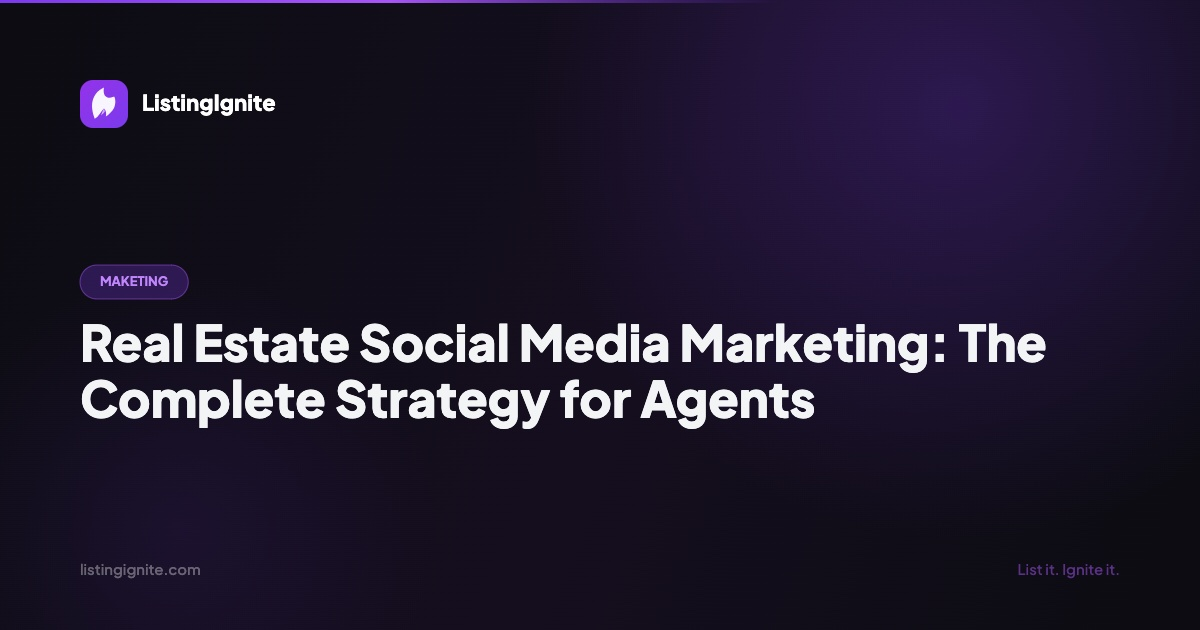
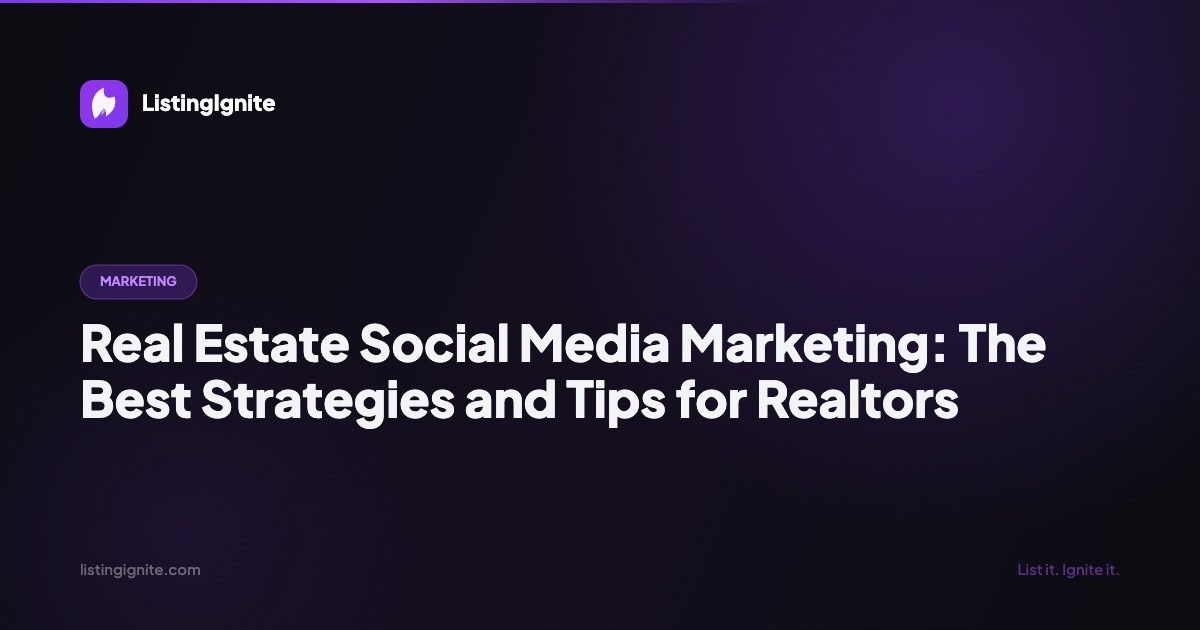
blog: add [UPDATE - Real Estate Social Media Marketing: The Complete Strategy for Agents]

Changed region(s): [[0.0617, 0.6032, 0.8017, 0.6937], [0.0925, 0.4222, 0.185, 0.4825]]

diff --git a/src/content/blog/real-estate-marketing-on-social-media.md b/src/content/blog/real-estate-marketing-on-social-media.md
@@ -1,28 +1,28 @@
 ---
-title: "Real Estate Social Media Marketing: The Complete Strategy for Agents"
+title: "Real Estate Social Media Marketing: The Best Strategies and Tips for Realtors"
 date: "2026-04-19"
 excerpt: "Every agent is on social media. Very few are using it strategically. Here's the complete guide to real estate marketing on social media that actually gets results."
 description: "Learn how to use real estate social media marketing to build your brand, generate leads, and grow your business. Covers platforms, content strategy, posting schedules, tools, and how to turn followers into clients."
 featuredImage: "/blog/images/real-estate-marketing-on-social-media.jpg"
 category: "Marketing"
 author: "Jason Stepp"
-tags: ["real estate marketing","listing marketing", "mls", "real estate social media marketing", "real estate marketing on social media", "social media marketing", "instagram", "real estate marketing"]
+tags: ["real estate social media marketing", "real estate marketing on social media", "social media marketing", "instagram", "real estate marketing"]
 published: true
 ---
 
 Every agent is on social media. Very few are using it strategically.
 
-Posting a listing photo once a week and calling it marketing isn't a strategy. It's noise. The agents who actually generate leads, build their brand, and grow their real estate business on social media are doing something different - they have a plan, they show up consistently, and they treat every post as part of a larger marketing effort.
+Posting a listing photo once a week and calling it marketing isn't a strategy. It's noise. The agents who actually generate leads, build their brand, and grow their real estate business on social media are doing something different - they have a plan, they show up consistently, and they treat every social post as part of a larger marketing effort.
 
-Real estate marketing on social media has become one of the best ways to reach buyers and sellers before they're ready to act. Before a potential client calls an agent, they've already looked them up. They've scrolled their Instagram, watched their videos, read their posts. Social media is where first impressions happen now - and for real estate professionals, that means showing up with intention.
+Real estate marketing on social media has become one of the best ways to reach buyers and sellers before they're ready to act. Before a potential client calls an agent, they've already looked them up. They've scrolled their Instagram, watched their TikTok videos, read their posts. Social media is where first impressions happen now - and for real estate professionals, that means showing up with intention.
 
-This guide covers everything: which platforms to focus on, what to post, how to build a content calendar, and how to turn social media presence into real business results.
+This guide covers everything: which platforms to focus on, what to post, how to build a content calendar, and how to turn your social media presence into real business results.
 
 ---
 
-## Why Social Media Marketing for Real Estate Actually Works
+## Why Social Media and Real Estate Are a Perfect Match
 
-Social media isn't just a place to post listings. For real estate agents who use it well, it's a powerful tool for building trust, generating leads, and staying top of mind with an audience that will eventually buy or sell.
+Social media isn't just a place to post listings. For real estate agents who use it well, it's a powerful tool for real estate marketing - building trust, generating leads, and staying top of mind with an audience that will eventually buy or sell.
 
 The numbers tell the story. The National Association of Realtors consistently reports that the vast majority of buyers start their home search online - and social media platforms are where a significant portion of that research happens. Buyers follow local agents on Instagram before they ever reach out. Sellers check a realtor's social media presence before they agree to a listing appointment. Your social media profile is your digital storefront - and it's open around the clock.
 
@@ -36,7 +36,7 @@ For a complete look at how social media fits into a broader real estate listing 
 
 <!--cta-->
 
-## Choose the Right Social Media Platforms for Your Real Estate Business
+## Choose the Best Social Media Platforms for Your Real Estate Business
 
 Not every platform deserves your time. The agents who get the most out of social media marketing focus on the platforms where their target clients actually spend time - and show up there consistently rather than spreading themselves thin across every social media channel.
 
@@ -44,17 +44,17 @@ Here's how to think about the major platforms.
 
 ---
 
-### Instagram for Real Estate
+### Instagram for Real Estate Agents
 
 Instagram is the most important social media platform for most real estate agents. It's visual, it's where buyers and sellers spend time, and it rewards consistency in a way that directly benefits agents who post regularly.
 
-Use Instagram for listing photos, neighborhood content, market updates, and behind-the-scenes glimpses of your business. Instagram Stories are perfect for quick updates - an open house reminder, a just-listed announcement, a poll about the local market. Instagram Reels give your content a chance to reach people who don't already follow you, making them one of the best tools for growing your audience organically.
+Use Instagram for listing photos, neighborhood content, market updates, and behind-the-scenes glimpses of your business. Instagram Stories are perfect for quick updates - an open house reminder, a just-listed announcement, a poll about the local market. Instagram Reels give your content a chance to reach people who don't already follow you, making them one of the best free social media tools for growing your audience organically.
 
-A strong real estate Instagram presence builds brand recognition over time. Every post is a touchpoint with someone in your sphere - and consistent touchpoints turn into referrals.
+A strong real estate Instagram presence builds brand recognition over time. Every instagram post is a touchpoint with someone in your sphere - and consistent touchpoints turn into referrals.
 
 ---
 
-### TikTok for Real Estate
+### TikTok: The Fastest-Growing Platform for Real Estate
 
 TikTok has become one of the fastest-growing platforms for real estate professionals. Short video content on TikTok reaches audiences that Instagram and Facebook don't always capture - particularly younger buyers who are just starting to think about purchasing a home.
 
@@ -64,7 +64,7 @@ Even two to three TikTok posts per week can build a meaningful following over ti
 
 ---
 
-### LinkedIn for Real Estate Professionals
+### LinkedIn for Real Estate Professionals Who Want to Build Authority
 
 LinkedIn is the most underused social media platform in real estate - and one of the highest-value ones for the right agent. If you work with commercial real estate clients, corporate relocation buyers, or real estate investors, LinkedIn is where those clients spend their professional time.
 
@@ -94,13 +94,13 @@ Video content is the highest-performing content type across every major social m
 
 For real estate agents, video is also the most natural fit. A walkthrough of a new listing, a quick market update, a neighborhood tour, a tip for first-time buyers - all of it translates naturally to short video content that builds brand recognition and generates leads over time.
 
-For a complete guide to using video as part of your real estate marketing strategy, check out our guide: [Real Estate Video Marketing: The Complete Guide for Agents.](https://listingignite.com/blog/real-estate-video-marketing)
+For a complete guide to using video as part of your marketing your real estate business strategy, check out our guide: [Real Estate Video Marketing: The Complete Guide for Agents.](https://listingignite.com/blog/real-estate-video-marketing)
 
 ---
 
-### Use Instagram Reels and Short Video
+### Use Instagram Reels and Short Video to Grow Your Real Estate Audience
 
-Instagram Reels are the single best free social media tool available to real estate agents right now. Reels get shown to people who don't already follow you - making them one of the fastest ways to grow your audience organically and reach potential clients in your local market.
+Instagram Reels are the single best free social media tool available to real estate agents right now. Reels get shown to people who don't already follow you - making them one of the fastest ways to grow your real estate audience organically and reach potential clients in your local market.
 
 Keep Reels short, punchy, and visually strong. A 30-60 second walkthrough of a listing, a quick three-tip market update, or a before-and-after renovation reveal all perform well. Use captions - most people watch without sound. And post consistently. One to two Reels per week compounds quickly into meaningful reach over time.
 
@@ -108,7 +108,7 @@ Keep Reels short, punchy, and visually strong. A 30-60 second walkthrough of a l
 
 ### Share Listings the Right Way
 
-Every listing deserves its own social post - but how you share it matters. A photo dump with an address and a price isn't marketing. A well-crafted social post that leads with the strongest feature, tells a short story, and ends with a clear call to action is.
+Every listing deserves its own social media post - but how you share it matters. A photo dump with an address and a price isn't marketing. A well-crafted social post that leads with the strongest feature, tells a short story, and ends with a clear call to action is.
 
 Use high-quality photos, write copy that speaks to the lifestyle the property offers, and include relevant hashtags to extend your reach beyond your existing followers. Tag the neighborhood, the city, and any relevant local accounts. Every listing post is an opportunity to reach a new potential client - treat it that way.
 
@@ -116,7 +116,7 @@ For tips on writing listing copy that translates seamlessly from social to MLS, 
 
 ---
 
-### Use Hashtags to Expand Your Reach
+### Use Hashtags to Expand Your Reach Across Social Media Channels
 
 Hashtags are one of the most underused tools in real estate social media marketing. The right hashtags put your content in front of people who are actively searching for real estate content in your market - buyers, sellers, and potential clients who don't follow you yet.
 
@@ -124,9 +124,9 @@ Use a mix of broad hashtags like #realestate and #realtor alongside hyper-local 
 
 ---
 
-## What to Post: Real Estate Social Media Content Ideas
+## What to Post: Real Estate Social Media Content Ideas and Tips for Real Estate Agents
 
-Knowing which platforms to use and which strategies to follow is one thing. Knowing what to actually post every week is where most agents get stuck. Here's a practical breakdown of the content types that perform best for real estate professionals on social media.
+Knowing which platforms to use and which strategies to follow is one thing. Knowing what to actually post every week is where most agents get stuck. Here's a practical breakdown of the content types that perform best for real estate professionals on social media - along with best practices for each.
 
 ---
 
@@ -164,21 +164,21 @@ For tips on collecting and using video testimonials as part of your broader mark
 
 ---
 
-## Build a Social Media Content Calendar
+## Build a Social Media Content Calendar to Stay Consistent
 
 Consistency is the single biggest factor in social media success for real estate agents. It's not about posting perfect content - it's about showing up regularly enough that your sphere never forgets you exist. A social media content calendar is how you make consistency happen without the daily stress of figuring out what to post.
 
 ---
 
-### Plan Your Posts in Advance
+### Plan Your Social Posts in Advance
 
 The agents who stay active on social media aren't the ones with the most time - they're the ones with a system. Batch your content creation once a week or once a month. Decide what you're going to post, write the captions, pull the photos, and schedule everything in advance.
 
-A simple plan doesn't need to be complicated. A spreadsheet with your posting days, content types, and captions is enough to start. As your real estate business grows, tools like Buffer, Later, or Hootsuite give you a more robust social media management system that schedules and publishes automatically across all platforms.
+A simple social media content calendar doesn't need to be complicated. A spreadsheet with your posting days, content types, and captions is enough to start. As your real estate business grows, tools like Buffer, Later, or Hootsuite give you a more robust social media management system that schedules and publishes automatically across all platforms.
 
 ---
 
-### Use Templates to Stay Consistent
+### Use Templates to Stay On Brand
 
 Templates are one of the most underrated tools in real estate social media marketing. A branded template for listing announcements, market updates, just-sold posts, and open house promotions means every post looks professional and on-brand - without starting from scratch every time.
 
@@ -196,15 +196,15 @@ For most real estate agents, the best times to post are early morning (7-9am), l
 
 ---
 
-### Stand Out on Social Media With Consistency
+### Stand Out on Social Media With a Consistent Posting Strategy
 
-Most agents post reactively - when they remember, when they have a listing, when something comes up. A proactive posting plan flips that dynamic. You become consistent and strategic. That consistency is what helps real estate agents stand out on social media in a crowded feed - and it's what turns casual followers into actual clients.
+Most agents post reactively - when they remember, when they have a listing, when something comes up. A proactive marketing strategy flips that dynamic. You become consistent and strategic. That consistency is what helps real estate agents stand out on social media in a crowded feed - and it's what turns casual followers into actual clients.
 
 ---
 
-## Grow Your Real Estate Business With Social Media
+## Grow Your Real Estate Business Using Social Media
 
-A consistent social media presence does more than keep you visible. Over time it becomes one of the most reliable lead generation and brand-building systems a realtor can have. Here's how to turn your social media activity into real business results.
+A consistent social media presence does more than keep you visible. Over time it becomes one of the most reliable lead generation and brand-building systems a realtor can have. Here's how to use social media to turn your activity into real business results.
 
 ---
 
@@ -214,7 +214,7 @@ Social media lead generation works differently than paid advertising or cold out
 
 To generate leads from social media, every post needs a purpose. A listing post drives showing requests. A market update drives consultations. A testimonial post drives referrals. Use social media without a clear goal for each content type and you'll stay busy without getting results.
 
-Use social media to build relationships first and leads second. The agents who approach it that way - as a tool for real estate professionals to connect genuinely with their community - are the ones who see the strongest long-term results.
+Use social media to build relationships first and leads second. The agents who approach it that way - as a powerful tool for real estate professionals to connect genuinely with their community - are the ones who see the strongest long-term results.
 
 ---
 
@@ -230,17 +230,17 @@ For real estate professionals who want to grow their real estate business beyond
 
 ### Use Social Media to Stay Top of Mind
 
-The vast majority of your social media followers aren't ready to buy or sell right now. That's fine. The goal of social media marketing strategies for real estate isn't just to convert today - it's to be the first agent they think of when the time comes.
+The vast majority of your social media followers aren't ready to buy or sell right now. That's fine. The goal of media marketing for real estate isn't just to convert today - it's to be the first agent they think of when the time comes.
 
 Staying top of mind on social media means posting consistently, engaging with comments, and showing up in your followers' feeds often enough that your name becomes synonymous with real estate in their minds. A realtor who posts three times a week for a year has thousands of touchpoints with their sphere. Those touchpoints translate directly into calls, referrals, and listings when the market moves.
 
-For a complete guide on how email marketing works alongside your social media strategy to keep you top of mind, check out our guide: [Real Estate Agent Email Marketing: The Complete Guide to Getting Results.](https://listingignite.com/blog/real-estate-agent-email-marketing)
+For a complete guide on how email marketing works alongside your social strategy to keep you top of mind, check out our guide: [Real Estate Agent Email Marketing: The Complete Guide to Getting Results.](https://listingignite.com/blog/real-estate-agent-email-marketing)
 
 ---
 
-## Social Media Marketing Tools and Resources for Realtors
+## Free Social Media Tools and Best Strategies for Realtors
 
-The right tools make social media marketing faster, more consistent, and more professional. You don't need to use all of them - but every realtor should have at least a few in their workflow.
+The right tools make social media marketing faster, more consistent, and more professional. You don't need to use all of them - but every realtor should have at least a few in their workflow. Here are the best strategies for finding and using the right tools for your real estate business.
 
 ---
 
@@ -279,9 +279,9 @@ Paste your listing details. Get your complete marketing kit in seconds. [Get sta
 
 Every agent has a social media profile. The ones winning listings, building their brand, and generating leads consistently are the ones who treat social media as a real marketing channel - not an afterthought.
 
-The strategies for real estate social media success aren't complicated. Show up on the right platforms. Post consistently. Lead with video. Use templates to stay on brand. Build a posting schedule and stick to it. Track what works and do more of it.
+The best strategies for real estate social media success aren't complicated. Show up on the right platforms. Post consistently. Lead with video. Use templates to stay on brand. Build a posting schedule and stick to it. Track what works and do more of it.
 
-Real estate industry veterans and new agents alike are finding that a strong social media presence feeds every other part of their business. Referrals come in faster. Listings are easier to win. Buyers reach out already knowing who you are. Social media use done right turns your online presence into a 24-hour marketing engine that works while you focus on closing deals.
+Real estate industry veterans and new agents alike are finding that a strong social media presence feeds every other part of their business. Referrals come in faster. Listings are easier to win. Buyers reach out already knowing who you are. Social media use done right turns your online presence into a 24-hour marketing tool that works while you focus on closing deals.
 
 This is where ListingIgnite fits into your workflow. Every listing you run through ListingIgnite generates ready-to-use social posts alongside your MLS description, email blast, flyer copy, video script, and SEO landing page. No blank page. No scrambling for content. Paste your details and get everything in seconds.
 
@@ -293,7 +293,7 @@ Serious agents use every tool available. [Get your full marketing kit at Listing
 
 ### What social media platforms should real estate agents focus on?
 
-Most real estate agents get the best results by focusing on two or three platforms rather than trying to be everywhere at once. Instagram is the highest priority for most agents - it's visual, it's where buyers and sellers spend time, and it rewards consistency. TikTok is the best platform for reaching younger buyers through short video content. Facebook remains one of the most effective platforms for local reach and paid social advertising. LinkedIn is worth investing in for agents who work with commercial real estate clients, investors, or corporate relocation buyers. Start with Instagram and one other platform, get consistent, and expand from there.
+Most real estate agents get the best results by focusing on two or three platforms rather than trying to be everywhere at once. Instagram is the highest priority for most agents - it's visual, it's where buyers and sellers spend time, and it rewards consistency. TikTok is the best social media platform for reaching younger buyers through short video content. Facebook remains one of the most effective platforms for local reach and paid social advertising. LinkedIn is worth investing in for agents who work with commercial real estate clients, investors, or corporate relocation buyers. Start with Instagram and one other platform, get consistent, and expand from there.
 
 ### How often should real estate agents post on social media?
 
@@ -301,15 +301,15 @@ Consistency matters more than volume. Three to four posts per week across your p
 
 ### What kind of content works best for real estate social media marketing?
 
-The content that performs best for real estate agents combines value with personality. Market updates and local expertise content positions you as the area expert. Listing posts and open house announcements drive direct business. Behind the scenes and brand content builds trust over time. Client testimonials and just-sold stories convert followers into clients faster than any other content type. Mix all four consistently and you'll have a social media and real estate content strategy that covers every stage of the client relationship.
+The content that performs best for real estate agents combines value with personality. Market updates and local expertise content positions you as the area expert. Listing posts and open house announcements drive direct business. Behind the scenes and brand content builds trust over time. Client testimonials and just-sold stories convert followers into clients faster than any other content type. Mix all four consistently and you'll have a social media and real estate content strategy that covers every stage of the client relationship. The best practices for each content type are simple: lead with value, be consistent, and always include a clear next step.
 
 ### How does social media marketing fit into a broader real estate marketing strategy?
 
-Social media is one piece of a complete real estate marketing strategy - not the whole picture. Media for real estate works best when it runs alongside email marketing, video content, and a strong listing marketing plan. Social media builds awareness and trust. Email marketing converts that trust into action. Video content deepens the relationship. A strong listing marketing plan ties it all together at the property level. The agents who win consistently use all of these channels together as a system rather than in isolation.
+Social media is one piece of a complete real estate marketing strategy - not the whole picture. Media for real estate works best when it runs alongside email marketing, video content, and a strong listing marketing plan. Social media builds awareness and trust. Email marketing converts that trust into action. Video content deepens the relationship. A strong listing marketing plan ties it all together at the property level. The agents who win consistently use all of these channels together as a system - create content for social, repurpose it for email, and let it all feed back into your listing marketing. That's how time marketing works when it's done right.
 
 ### How long does it take to see results from real estate social media marketing?
 
-Most agents start seeing meaningful results - more followers, more inbound messages, more referrals mentioning their social media - within three to six months of consistent posting. Social media is a long-time marketing investment, not a quick-win channel. New social media accounts that grow fastest are the ones that post consistently, engage authentically, and lead with value rather than self-promotion. Start now, stay consistent, and the results compound over time.
+Most agents start seeing meaningful results - more followers, more inbound messages, more referrals mentioning their social media - within three to six months of consistent posting. Social media is a long-term marketing investment, not a quick-win channel. The most powerful tool for real estate agents on social media is patience combined with consistency. New social media accounts that grow fastest are the ones that post consistently, engage authentically, and lead with value rather than self-promotion. Start now, stay consistent, and the results compound over time.
 
 ---
 

diff --git a/src/content/blog/real-estate-agent-email-marketing.md b/src/content/blog/real-estate-agent-email-marketing.md
@@ -18,6 +18,8 @@ Email is direct. It lands in the inbox of someone who already knows you, already
 
 This guide covers everything a real estate agent needs to build, run, and improve an email marketing strategy that actually gets results: how to build your list, which types of emails to send, best practices that improve open rates, and how to automate the process so it runs without constant effort.
 
+For tips on using social media alongside your email strategy, read: [Real Estate Social Media Marketing: The Best Strategies and Tips for Realtors.](https://listingignite.com/blog/real-estate-marketing-on-social-media)
+
 ---
 
 ## Why Email Marketing for Real Estate Agents Actually Works

diff --git a/src/content/blog/real-estate-video-marketing.md b/src/content/blog/real-estate-video-marketing.md
@@ -138,6 +138,8 @@ YouTube is the second largest search engine in the world - and one of the most u
 
 On social media, short-form video formats perform best. Clip your walkthrough into a 60-second reel for Instagram. Post a quick market update to Facebook. Tailor your content to each platform and each target audience - what works on YouTube won't always work on Instagram, and vice versa.
 
+For a complete social media strategy built around your video content, read: [Real Estate Social Media Marketing: The Best Strategies and Tips for Realtors.](https://listingignite.com/blog/real-estate-marketing-on-social-media)
+
 ---
 
 ### Email and Your Sphere of Influence

diff --git a/src/content/blog/how-to-write-a-real-estate-listing-description.md b/src/content/blog/how-to-write-a-real-estate-listing-description.md
@@ -272,6 +272,8 @@ For a complete guide to real estate video marketing, read: [Real Estate Video Ma
 
 If you want to learn how top Agents are using email, check out [Real Estate Email Marketing: The Complete Guide for Agents.](https://listingignite.com/blog/real-estate-agent-email-marketing)
 
+For tips on promoting your listing across social media, read: [Real Estate Social Media Marketing: The Best Strategies and Tips for Realtors.](https://listingignite.com/blog/real-estate-marketing-on-social-media)
+
 Your next listing is waiting. [Get your full marketing kit at ListingIgnite.](https://listingignite.com)
 
 ---

diff --git a/src/content/blog/real-estate-listing-marketing.md b/src/content/blog/real-estate-listing-marketing.md
@@ -98,6 +98,9 @@ Every property deserves its own social media push. Post across your active platf
 
 Paid promotion on social is worth considering for the right property. Even a small budget behind a well-targeted post can put your home listings in front of buyers who aren't actively searching but would be interested.
 
+For a complete guide to real estate marketing on social media, read: [Real Estate Social Media Marketing: The Best Strategies and Tips for Realtors.](https://listingignite.com/blog/real-estate-marketing-on-social-media)
+
+
 ---
 
 ## Listing Marketing Ideas for Sellers Who Want Results
